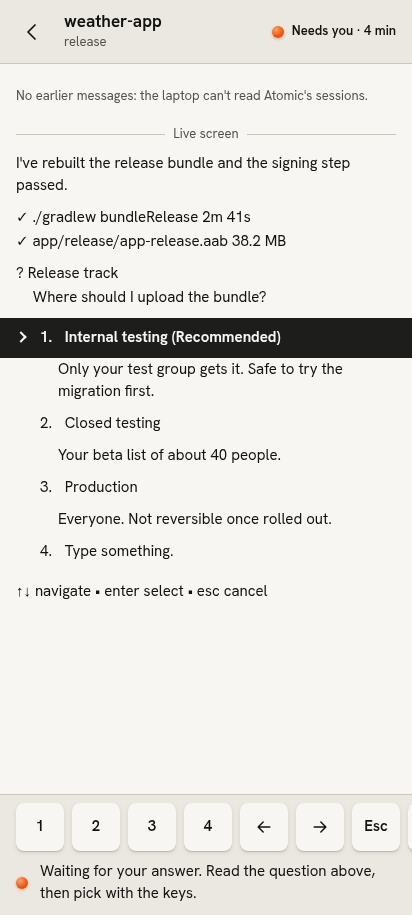
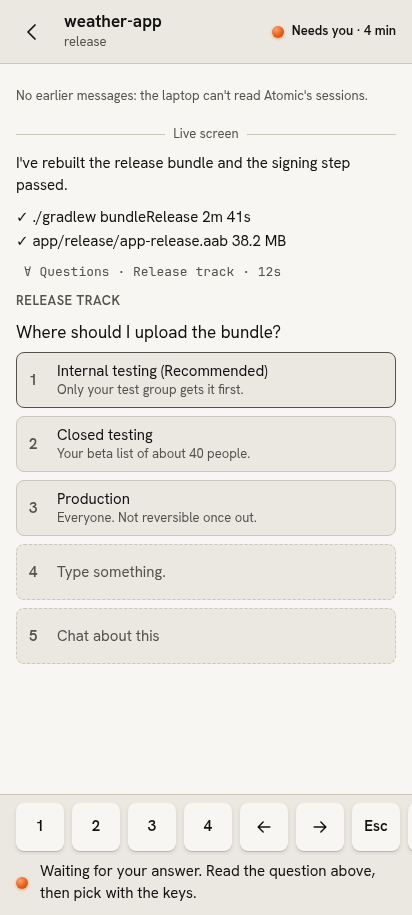
Update: README screenshots and features for answering questions

diff --git a/web/sample-data.js b/web/sample-data.js
@@ -55,18 +55,24 @@ const outputs = {
     " ✓ ./gradlew bundleRelease   2m 41s",
     " ✓ app/release/app-release.aab   38.2 MB",
     "",
-    " ? Release track",
-    "   Where should I upload the bundle?",
-    "",
-    " ❯ 1. Internal testing (Recommended)",
-    "      Only your test group gets it. Safe to try the migration first.",
-    "   2. Closed testing",
-    "      Your beta list of about 40 people.",
-    "   3. Production",
-    "      Everyone. Not reversible once rolled out.",
-    "   4. Type something.",
-    "",
-    " ↑↓ navigate • enter select • esc cancel",
+    " ∀ Questions · Release track · 12s",
+    "╭──────────────────────────────────────────────────────╮",
+    "│  Release track                                       │",
+    "│                                                      │",
+    "│ Where should I upload the bundle?                    │",
+    "│                                                      │",
+    "│ ❯ 1. Internal testing (Recommended)                  │",
+    "│      \u001b[38;5;242mOnly your test group gets it first.\u001b[0m             │",
+    "│   2. Closed testing                                  │",
+    "│      \u001b[38;5;242mYour beta list of about 40 people.\u001b[0m              │",
+    "│   3. Production                                      │",
+    "│      \u001b[38;5;242mEveryone. Not reversible once out.\u001b[0m              │",
+    "│   4. Type something.                                 │",
+    "│                                                      │",
+    "│ ──────────────────────────────────────────────────── │",
+    "│   5. Chat about this                                 │",
+    "╰──────────────────────────────────────────────────────╯",
+    "  ↑↓ select · enter choose · esc cancel",
   ].join("\n"),
   "w9:pD": [
     "Reading src/charts/usage-query.ts",
@@ -125,7 +131,7 @@ let seq = 390;
 
 /** @type {Agent[]} */
 const agents = [
-  { pane_id: "w8:p1", workspace_id: "w8", agent_status: "blocked", state_change_seq: 387, cwd: "/home/you/projects/weather-app", terminal_title_stripped: "atomic - weather-app", since: now - 4 * MINUTE, latest_line: "Everyone. Not reversible once rolled out." },
+  { pane_id: "w8:p1", workspace_id: "w8", agent_status: "blocked", state_change_seq: 387, cwd: "/home/you/projects/weather-app", terminal_title_stripped: "atomic - weather-app", since: now - 4 * MINUTE, latest_line: "Release track: Where should I upload the bundle?" },
   { pane_id: "w9:pD", workspace_id: "w9", agent_status: "working", state_change_seq: 380, cwd: "/home/you/projects/usage-dashboard", terminal_title_stripped: "atomic - new next - usage-dashboard", since: now - 7 * MINUTE, latest_line: "Now checking the dashboard renders the same totals as the CSV export…" },
   { pane_id: "wF:p1", workspace_id: "wF", agent_status: "working", state_change_seq: 389, cwd: "/home/you/projects/hermux", terminal_title_stripped: "atomic - hermux", since: now - 1 * MINUTE, latest_line: "The list screen renders from sample data. Next I'm wiring the agent screen's key bar and the hold-to-send Ctrl+C key." },
   { pane_id: "wA:pN", workspace_id: "wA", agent_status: "done", state_change_seq: 384, completion_seq: 384, cwd: "/home/you/projects/todo-cli", terminal_title_stripped: "atomic - todo-cli", since: now - 22 * MINUTE, latest_line: "Nothing is committed yet. Say \"commit it\" and I'll write the commit with the usual trailers." },

diff --git a/README.md b/README.md
@@ -6,8 +6,8 @@ It installs to your home screen as "Agents".
 
 | | | |
 |:---:|:---:|:---:|
-| <img src="docs/screenshots/home.png" alt="Home: the Inbox with a blocked and a finished agent, then Activity" width="240"> | <img src="docs/screenshots/question.png" alt="An agent asking a question, answered with the number and arrow keys" width="240"> | <img src="docs/screenshots/attach.png" alt="The clip menu: take a photo or choose pictures, with a row of attached pictures running off the screen's edge" width="240"> |
-| **Home**: who needs you, what finished, what's working | **Answer questions** with big keys | **Send pictures**: camera or gallery |
+| <img src="docs/screenshots/home.png" alt="Home: the Inbox with a blocked and a finished agent, then Activity" width="240"> | <img src="docs/screenshots/question.png" alt="An agent asking a question, shown as answers to tap" width="240"> | <img src="docs/screenshots/attach.png" alt="The clip menu: take a photo or choose pictures, with a row of attached pictures running off the screen's edge" width="240"> |
+| **Home**: who needs you, what finished, what's working | **Answer questions** by tapping an answer | **Send pictures**: camera or gallery |
 | <img src="docs/screenshots/picture-paths.png" alt="An agent's screen in the Reader, with view and copy keys after picture paths" width="240"> | <img src="docs/screenshots/viewer.png" alt="A picture from the computer opened full screen, 1 of 3" width="240"> | <img src="docs/screenshots/switcher.png" alt="The switcher listing every terminal in the agent's workspace" width="240"> |
 | **Reader**: picture paths get a view key | **Open computer pictures** full screen | **Switcher**: every terminal in the workspace |
 
@@ -18,6 +18,8 @@ The screenshots use the built-in sample data.
 - **Inbox.** Agents waiting on a question or approval, and agents that finished since you last opened them.
 - **Activity.** Working agents first, then the most recently active others. Older sessions are one tap away.
 - **Reader.** An agent's screen as readable text. Scroll up to load its earlier messages. Links open in a new tab.
+- **Answer questions.** An agent's question shows as big answers to tap, including pick-several questions and sets of questions. "Type something" and "Chat about this" open the message box for your own words.
+- **Workflow questions.** When a background workflow is waiting on you, a card shows its question and opens it in one tap.
 - **Keys.** Esc, Tab, arrows and Enter, number keys while an agent is asking, and a Ctrl+C you hold to send. You can add your own keys.
 - **Saved commands.** One-tap replies you write yourself, behind the "/" button in the message bar.
 - **Send pictures.** Attach screenshots, photos from your gallery or new ones from the camera, up to 10 in one message. The pictures are saved on the computer and their paths go into your message, so the agent can open them.
